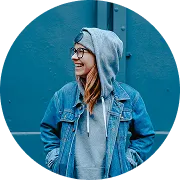
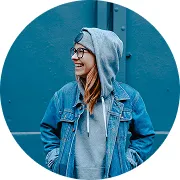
Меняет фото выпускников с png на jpg. Добавляет логотипы работодателей. Исправляет название шрифта

diff --git a/source/index.html b/source/index.html
@@ -8,9 +8,6 @@
     <link rel="preload" href="fonts/LoosWide-Medium.woff2" type="font/woff2" as="font" crossorigin="anonymous">
     <link rel="preload" href="fonts/Manrope-Medium.woff2" type="font/woff2" as="font" crossorigin="anonymous">
     <link rel="preload" href="fonts/Manrope-SemiBold.woff2" type="font/woff2" as="font" crossorigin="anonymous">
-    <!-- <link rel="icon" href="favicon.ico">
-    <link rel="apple-touch-icon" href="favicons/apple-icon.png">
-    <link rel="manifest" href="manifest.webmanifest"> -->
     <link rel="stylesheet" href="styles/styles.scss">
   </head>
   <body class="page__body">
@@ -115,41 +112,41 @@
             <li class="graduates__item">
               <picture>
                 <source type="image/webp" media="(min-width: 1440px)" width="120" height="120" srcset="images/graduates/graduate-one-large@1x.webp 1x, images/graduates/graduate-one-large@2x.webp 2x">
-                <source type="image/png" media="(min-width: 1440px)" width="120" height="120" srcset="images/graduates/graduate-one-large@1x.png 1x, images/graduates/graduate-one-large@2x.png 2x">
+                <source type="image/jpeg" media="(min-width: 1440px)" width="120" height="120" srcset="images/graduates/graduate-one-large@1x.jpg 1x, images/graduates/graduate-one-large@2x.jpg 2x">
                 <source type="image/webp" media="(min-width: 480px)" width="90" height="90" srcset="images/graduates/graduate-one-small@1x.webp 1x, images/graduates/graduate-one-small@2x.webp 2x">
-                <source type="image/png" media="(min-width: 480px)" width="90" height="90" srcset="images/graduates/graduate-one-small@1x.png 1x, images/graduates/graduate-one-small@2x.png 2x">
-                <img class="graduates__item-photo" src="images/graduates/graduate-one-small@1x.png" srcset="images/graduates/graduate-one-small@2x.png 2x" width="90" height="90" alt="Молодая улыбающаяся девушка в очках, сером худи и синей джинсовой куртке на фоне синей металлической стены.">
+                <source type="image/jpeg" media="(min-width: 480px)" width="90" height="90" srcset="images/graduates/graduate-one-small@1x.jpg 1x, images/graduates/graduate-one-small@2x.jpg 2x">
+                <img class="graduates__item-photo" src="images/graduates/graduate-one-small@1x.jpg" srcset="images/graduates/graduate-one-small@2x.jpg 2x" width="90" height="90" alt="Молодая улыбающаяся девушка в очках, сером худи и синей джинсовой куртке на фоне синей металлической стены.">
               </picture>
             </li>
             <li class="graduates__item">
               <picture>
                 <source type="image/webp" media="(min-width: 1440px)" width="120" height="120" srcset="images/graduates/graduate-two-large@1x.webp 1x, images/graduates/graduate-two-large@2x.webp 2x">
-                <source type="image/png" media="(min-width: 1440px)" width="120" height="120" srcset="images/graduates/graduate-two-large@1x.png 1x, images/graduates/graduate-two-large@2x.png 2x">
+                <source type="image/jpeg" media="(min-width: 1440px)" width="120" height="120" srcset="images/graduates/graduate-two-large@1x.jpg 1x, images/graduates/graduate-two-large@2x.jpg 2x">
                 <source type="image/webp" media="(min-width: 480px)" width="90" height="90" srcset="images/graduates/graduate-two-small@1x.webp 1x, images/graduates/graduate-two-small@2x.webp 2x">
-                <source type="image/png" media="(min-width: 480px)" width="90" height="90" srcset="images/graduates/graduate-two-small@1x.png 1x, images/graduates/graduate-two-small@2x.png 2x">
-                <img class="graduates__item-photo" src="images/graduates/graduate-two-small@1x.png" srcset="images/graduates/graduate-two-small@2x.png 2x" width="90" height="90" alt="Улыбающаяся девушка со светлыми волосами, держащая оранжевую папку.">
+                <source type="image/jpeg" media="(min-width: 480px)" width="90" height="90" srcset="images/graduates/graduate-two-small@1x.jpg 1x, images/graduates/graduate-two-small@2x.jpg 2x">
+                <img class="graduates__item-photo" src="images/graduates/graduate-two-small@1x.jpg" srcset="images/graduates/graduate-two-small@2x.jpg 2x" width="90" height="90" alt="Улыбающаяся девушка со светлыми волосами, держащая оранжевую папку.">
               </picture>
             </li>
             <li class="graduates__item">
               <picture>
                 <source type="image/webp" media="(min-width: 1440px)" width="120" height="120" srcset="images/graduates/graduate-three-large@1x.webp 1x, images/graduates/graduate-three-large@2x.webp 2x">
-                <source type="image/png" media="(min-width: 1440px)" width="120" height="120" srcset="images/graduates/graduate-three-large@1x.png 1x, images/graduates/graduate-three-large@2x.png 2x">
+                <source type="image/jpeg" media="(min-width: 1440px)" width="120" height="120" srcset="images/graduates/graduate-three-large@1x.jpg 1x, images/graduates/graduate-three-large@2x.jpg 2x">
                 <source type="image/webp" media="(min-width: 480px)" width="90" height="90" srcset="images/graduates/graduate-three-small@1x.webp 1x, images/graduates/graduate-three-small@2x.webp 2x">
-                <source type="image/png" media="(min-width: 480px)" width="90" height="90" srcset="images/graduates/graduate-three-small@1x.png 1x, images/graduates/graduate-three-small@2x.png 2x">
-                <img class="graduates__item-photo" src="images/graduates/graduate-three-small@1x.png" srcset="images/graduates/graduate-three-small@2x.png 2x" width="90" height="90" alt="Молодой человек в кепке и коричневой вельветовой куртке на сером фоне.">
+                <source type="image/jpeg" media="(min-width: 480px)" width="90" height="90" srcset="images/graduates/graduate-three-small@1x.jpg 1x, images/graduates/graduate-three-small@2x.jpg 2x">
+                <img class="graduates__item-photo" src="images/graduates/graduate-three-small@1x.jpg" srcset="images/graduates/graduate-three-small@2x.jpg 2x" width="90" height="90" alt="Молодой человек в кепке и коричневой вельветовой куртке на сером фоне.">
               </picture>
             </li>
             <li class="graduates__item">
               <picture>
                 <source type="image/webp" media="(min-width: 1440px)" width="120" height="120" srcset="images/graduates/graduate-four-large@1x.webp 1x, images/graduates/graduate-four-large@2x.webp 2x">
-                <source type="image/png" media="(min-width: 1440px)" width="120" height="120" srcset="images/graduates/graduate-four-large@1x.png 1x, images/graduates/graduate-four-large@2x.png 2x">
+                <source type="image/jpeg" media="(min-width: 1440px)" width="120" height="120" srcset="images/graduates/graduate-four-large@1x.jpg 1x, images/graduates/graduate-four-large@2x.jpg 2x">
                 <source type="image/webp" media="(min-width: 480px)" width="90" height="90" srcset="images/graduates/graduate-four-small@1x.webp 1x, images/graduates/graduate-four-small@2x.webp 2x">
-                <source type="image/png" media="(min-width: 480px)" width="90" height="90" srcset="images/graduates/graduate-four-small@1x.png 1x, images/graduates/graduate-four-small@2x.png 2x">
-                <img class="graduates__item-image" src="images/graduates/graduate-four-small@1x.png" srcset="images/graduates/graduate-four-small@2x.png 2x" width="90" height="90" alt="Улыбающийся молодой человек с кудрявыми волосами в черной шляпе.">
+                <source type="image/jpeg" media="(min-width: 480px)" width="90" height="90" srcset="images/graduates/graduate-four-small@1x.jpg 1x, images/graduates/graduate-four-small@2x.jpg 2x">
+                <img class="graduates__item-image" src="images/graduates/graduate-four-small@1x.jpg" srcset="images/graduates/graduate-four-small@2x.jpg 2x" width="90" height="90" alt="Улыбающийся молодой человек с кудрявыми волосами в черной шляпе.">
               </picture>
             </li>
             <li class="graduates__item graduates__item--become">
-              <img class="graduates__item-image" src="icons/plus.svg" width="45" height="45" alt="Начать учиться">
+              <img class="graduates__item-image" src="icons/stack.svg#plus" width="45" height="45" alt="Начать учиться">
             </li>
           </ul>
           <dl class="stats-info">
@@ -191,7 +188,7 @@
         <div class="career__info">
           <h2 class="career__title">Где работают наши выпускники</h2>
           <p class="career__subtitle">Начните работать в&nbsp;крупнейших компаниях индустрии</p>
-          <a href="#join" class="career__button">Присоединиться</a>
+          <a href="#" class="career__button">Присоединиться</a>
         </div>
         <ul class="career__grid">
           <li class="career__item"><img class="career__logo" src="#" alt="Логотип ВТБ"></li>
@@ -209,14 +206,14 @@
         <div class="upgrade__promo">
           <h2 class="upgrade__title">Получи сертификат об успешном завершении курса</h2>
           <p class="upgrade__subtitle">Обучение ведется на основании лицензии государственного образца</p>
-          <a class="upgrade__anchor" href="#course-start">Начать учиться</a>
+          <a class="upgrade__anchor" href="#">Начать учиться</a>
         </div>
         <div class="upgrade__certificate">
           <picture>
             <source type="image/webp" media="(min-width: 1440px)" width="660" height="440" srcset="images/certificate/certificate-large@1x.webp 1x, images/certificate/certificate-large@2x.webp 2x">
-            <source type="image/png" media="(min-width: 1440px)" width="660" height="440" srcset="images/certificate/certificate-large@1x.png 1x, images/certificate/certificate-large@2x.png 2x">
+            <source type="image/jpeg" media="(min-width: 1440px)" width="660" height="440" srcset="images/certificate/certificate-large@1x.png 1x, images/certificate/certificate-large@2x.png 2x">
             <source type="image/webp" media="(min-width: 480px)" width="448" height="300" srcset="images/certificate/certificate-small@1x.webp 1x, images/certificate/certificate-small@2x.webp 2x">
-            <source type="image/png" media="(min-width: 480px)" width="448" height="300" srcset="images/certificate/certificate-small.png 1x, images/certificate/certificate-small@2x.png 2x">
+            <source type="image/jpeg" media="(min-width: 480px)" width="448" height="300" srcset="images/certificate/certificate-small.png 1x, images/certificate/certificate-small@2x.png 2x">
             <img class="upgrade__certificate-image" src="images/certificate/certificate-small@1x.png" srcset="images/certificate/certificate-small@2x.png 2x" width="448" height="300" alt="Образец сертификата академии Spreent">
           </picture>
         </div>

diff --git a/source/styles/common/fonts.scss b/source/styles/common/fonts.scss
@@ -8,7 +8,7 @@
 
 @font-face {
   font-family: "Loos Normal";
-  src: url("LoosNormal-Medium.woff2") format("woff2");
+  src: url("LoosWide-Medium.woff2") format("woff2");
   font-weight: 500;
   font-style: normal;
   font-display: swap;
